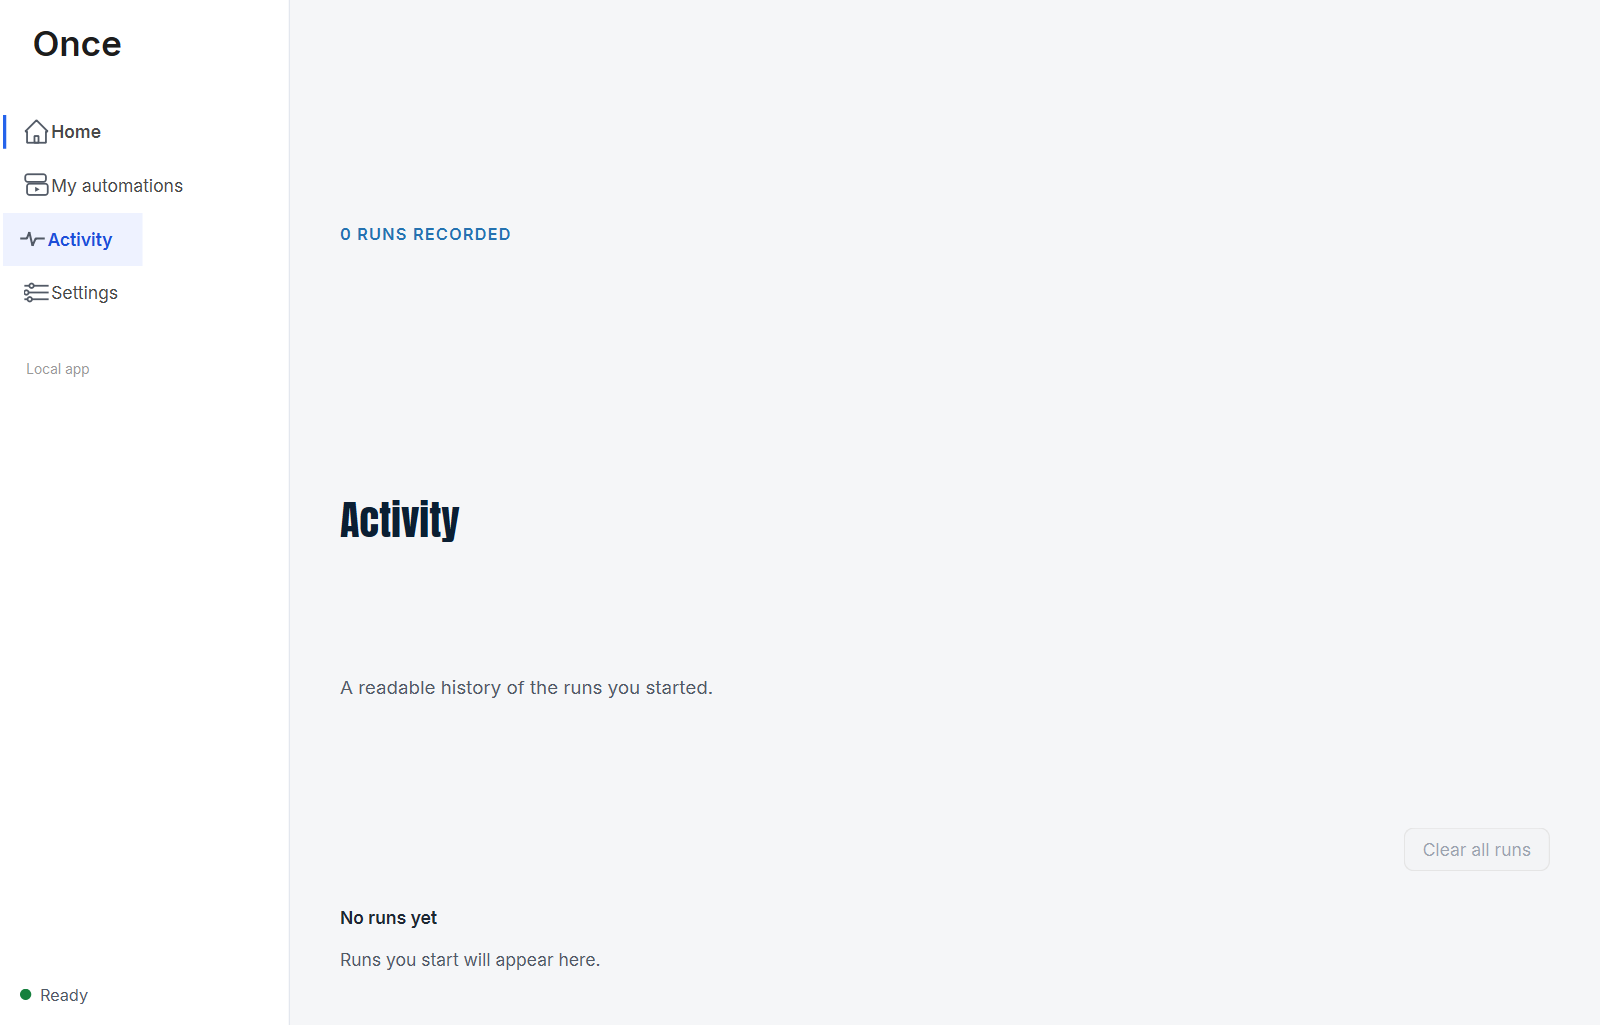
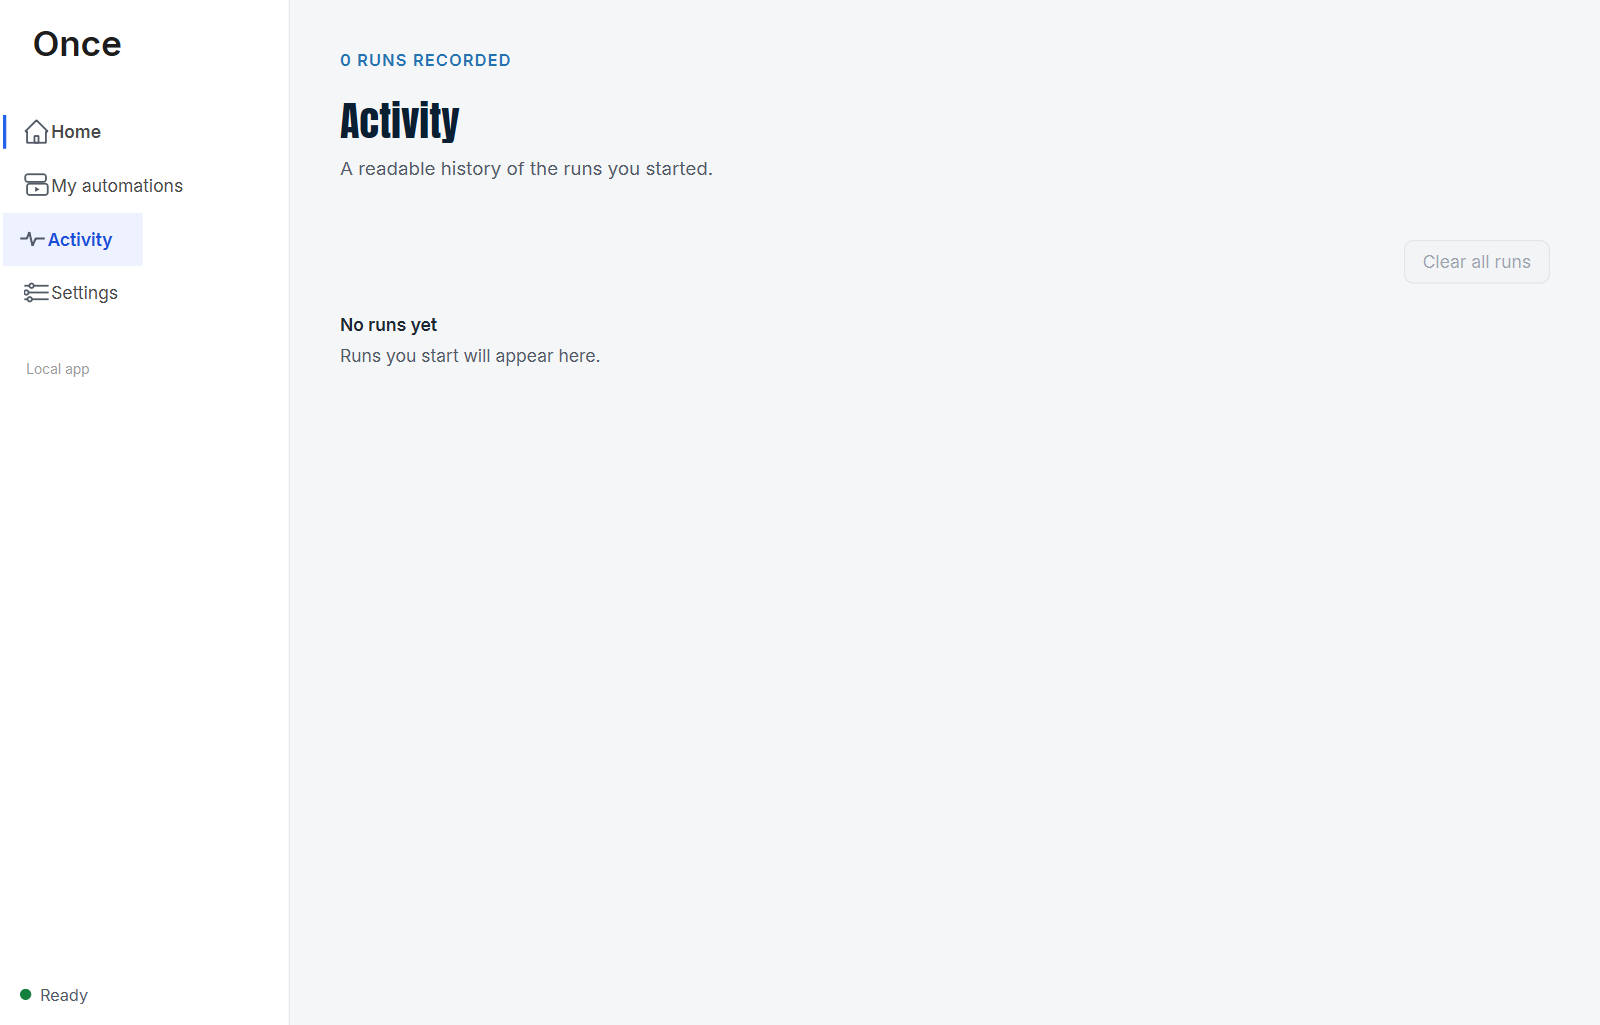
fix(ui): collapse empty page states to the top
Hidden lists still claimed their stretch, so Activity and My automations
spread their headings across the page. Hide the empty list and send the
leftover height to a trailing stretch.

Generated with Codebuff 🤖

diff --git a/ui/pages/my_automations.py b/ui/pages/my_automations.py
@@ -206,6 +206,7 @@ class MyAutomationsPage(QWidget):
         self._details_label.setObjectName("automationDetailsLabel")
         self._details_label.setWordWrap(True)
         layout.addWidget(self._details_label)
+        layout.addStretch(1)
         self._refresh()
 
     # ------------------------------------------------------------- helpers
@@ -463,6 +464,7 @@ class MyAutomationsPage(QWidget):
         if self._service is None:
             self._micro_label.setText("0 SAVED AUTOMATIONS")
             self._details_label.setText(MY_EMPTY)
+            self._workflow_list.setVisible(False)
             return
         saved_paths = tuple(self._service.list_saved())
         self._micro_label.setText(
@@ -497,6 +499,7 @@ class MyAutomationsPage(QWidget):
             item.setSizeHint(hint)
             self._workflow_list.addItem(item)
             self._workflow_list.setItemWidget(item, row)
+        self._workflow_list.setVisible(bool(saved_paths))
         self._workflow_list.setFixedHeight(max(84, min(320, 28 + len(saved_paths) * 64)))
         if unreadable:
             self._banner.show_message("warning", MY_UNREADABLE_TITLE, MY_UNREADABLE_BODY)

diff --git a/ui/pages/activity.py b/ui/pages/activity.py
@@ -144,6 +144,7 @@ class ActivityPage(QWidget):
             parent=self,
         )
         layout.addWidget(self._empty_state)
+        layout.addStretch(1)
         self._refresh()
 
     def _row_facts(self, run: object) -> tuple[str, str, str, str, str, str]:
